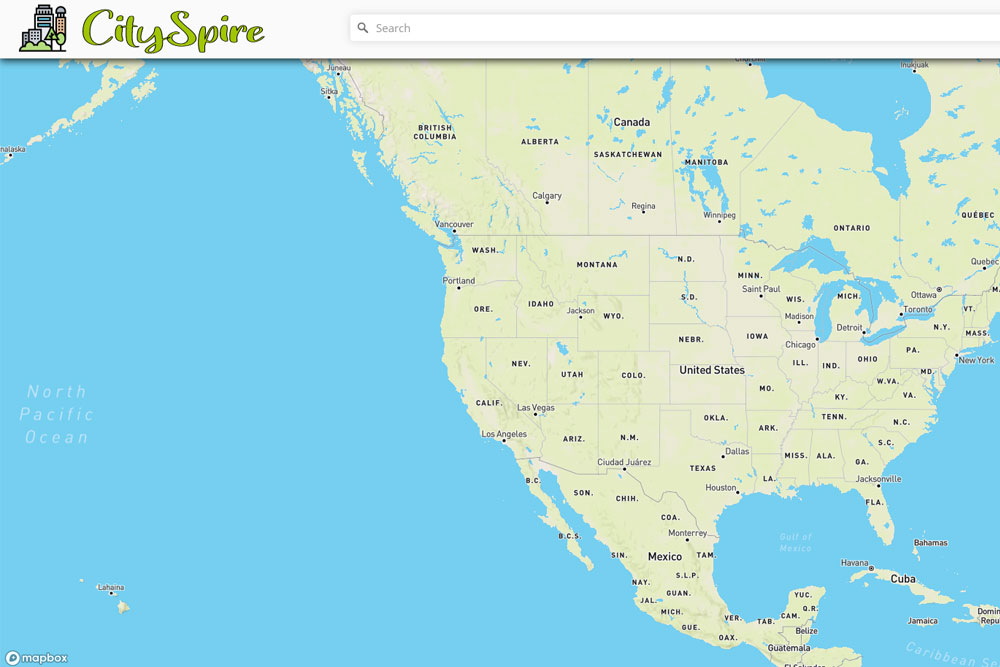
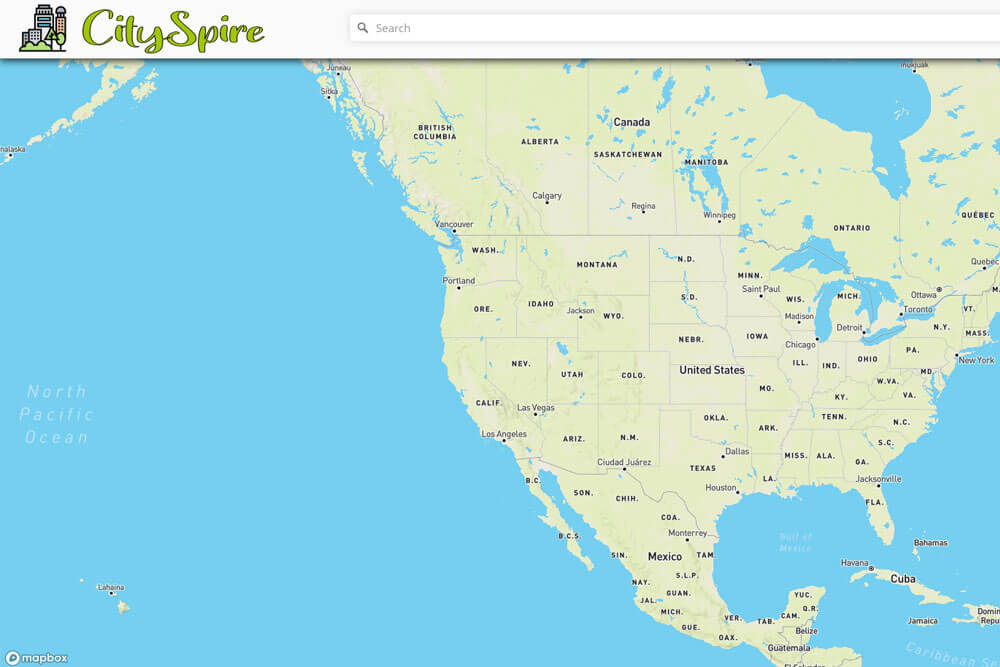
Laout: Replaced Images
Replaced images with webp formatted images for better optimization.

diff --git a/src/components/portfolio/portfolio.jsx b/src/components/portfolio/portfolio.jsx
@@ -1,10 +1,10 @@
 import "./portfolio.scss";
-import trillo from "../../images/projects/trillo.jpg";
-import crwnClothing from "../../images/projects/crwnclothing.jpg";
-import cityspire from "../../images/projects/cityspire.jpg";
-import shoppies from "../../images/projects/shoppies.jpg";
-import monstersRolodex from "../../images/projects/monstersrolodex.jpg";
-import landingPage from "../../images/projects/landingpage.jpg";
+import trillo from "../../images/projects/trillo.webp";
+import crwnClothing from "../../images/projects/crwnclothing.webp";
+import cityspire from "../../images/projects/cityspire.webp";
+import shoppies from "../../images/projects/shoppies.webp";
+import monstersRolodex from "../../images/projects/monstersrolodex.webp";
+import landingPage from "../../images/projects/landingpage.webp";
 import browser from "../../images/svg/browser.svg";
 import gitHub from "../../images/svg/github.svg";
 

diff --git a/src/components/nomatch/nomatch.jsx b/src/components/nomatch/nomatch.jsx
@@ -4,8 +4,6 @@ import { Link } from "react-router-dom";
 import "./nomatch.scss";
 
 function NoMatch() {
-  let baseUrl = window.location.origin;
-
   return (
     <section className="nomatch">
       <div className="nomatch__card">

diff --git a/src/components/success/success.jsx b/src/components/success/success.jsx
@@ -3,8 +3,6 @@ import { Link } from "react-router-dom";
 import "./success.scss";
 
 function Success() {
-  let baseUrl = window.location.origin;
-
   return (
     <section className="success">
       <div className="success__card">

diff --git a/src/layout/Footer/Footer.jsx b/src/layout/Footer/Footer.jsx
@@ -1,5 +1,5 @@
 import { HashLink } from "react-router-hash-link";
-import logo from "../../images/b&wShane.png";
+import logo from "../../images/b&wShane.webp";
 
 import "./footer.scss";
 

diff --git a/src/components/about-me/about-me.jsx b/src/components/about-me/about-me.jsx
@@ -1,4 +1,4 @@
-import userPic from "../../images/Shane5.png";
+import userPic from "../../images/Shane5.webp";
 
 import "./about-me.scss";
 
